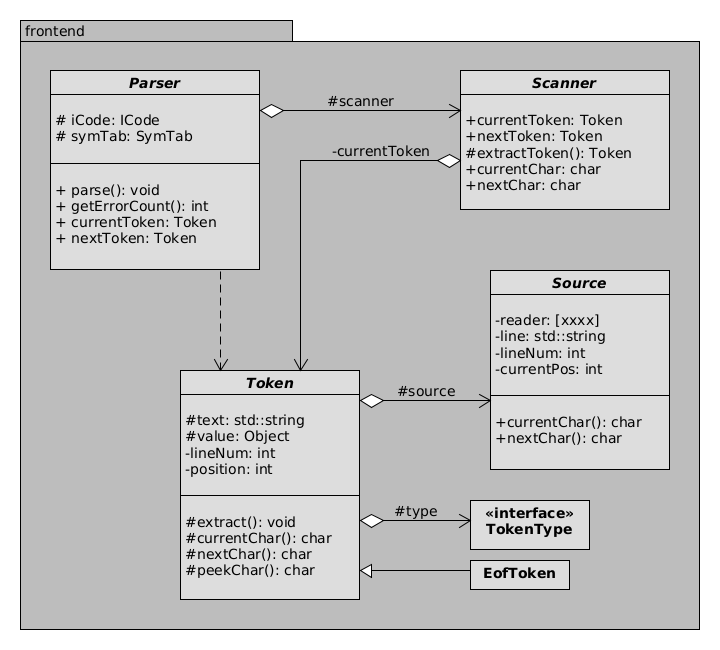
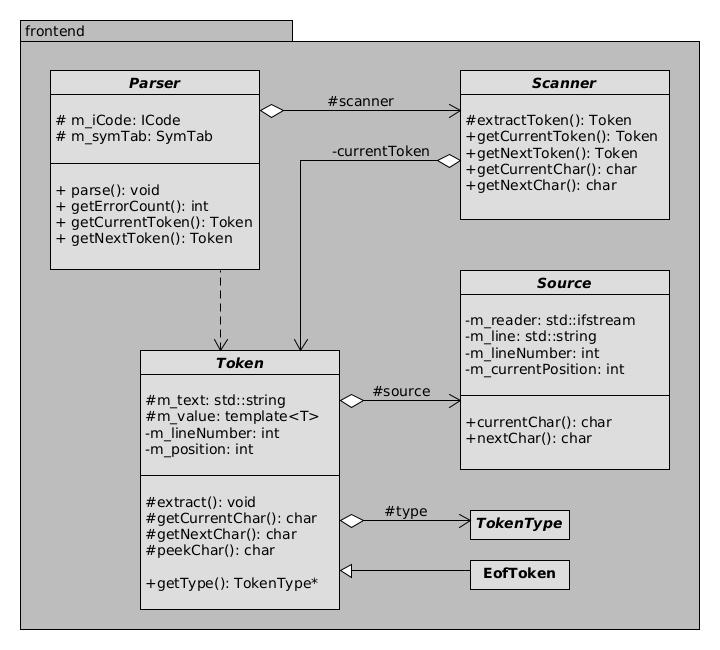
Update initial framework

diff --git a/include/Token.h b/include/Token.h
@@ -2,6 +2,8 @@
 
 #include <string>
 
+class TokenType;
+
 class Token {
 protected:
 	std::string m_text;
@@ -18,4 +20,6 @@ private:
 
 public:
 	Token();
+
+	TokenType* getType() const;
 };

diff --git a/src/Token.cpp b/src/Token.cpp
@@ -19,3 +19,7 @@ char Token::getNextChar() const {
 char Token::peekChar() const {
 
 }
+
+TokenType* Token::getType() const {
+
+}

diff --git a/include/TokenType.h b/include/TokenType.h
@@ -1,0 +1,8 @@
+#pragma once
+
+class Token;
+
+class TokenType {
+public:
+    virtual void processToken(Token token) = 0;
+};

diff --git a/include/EofToken.h b/include/EofToken.h
@@ -1,0 +1,8 @@
+#pragma once
+
+#include "Token.h"
+
+class EofToken : public Token {
+public:
+    EofToken();
+};
